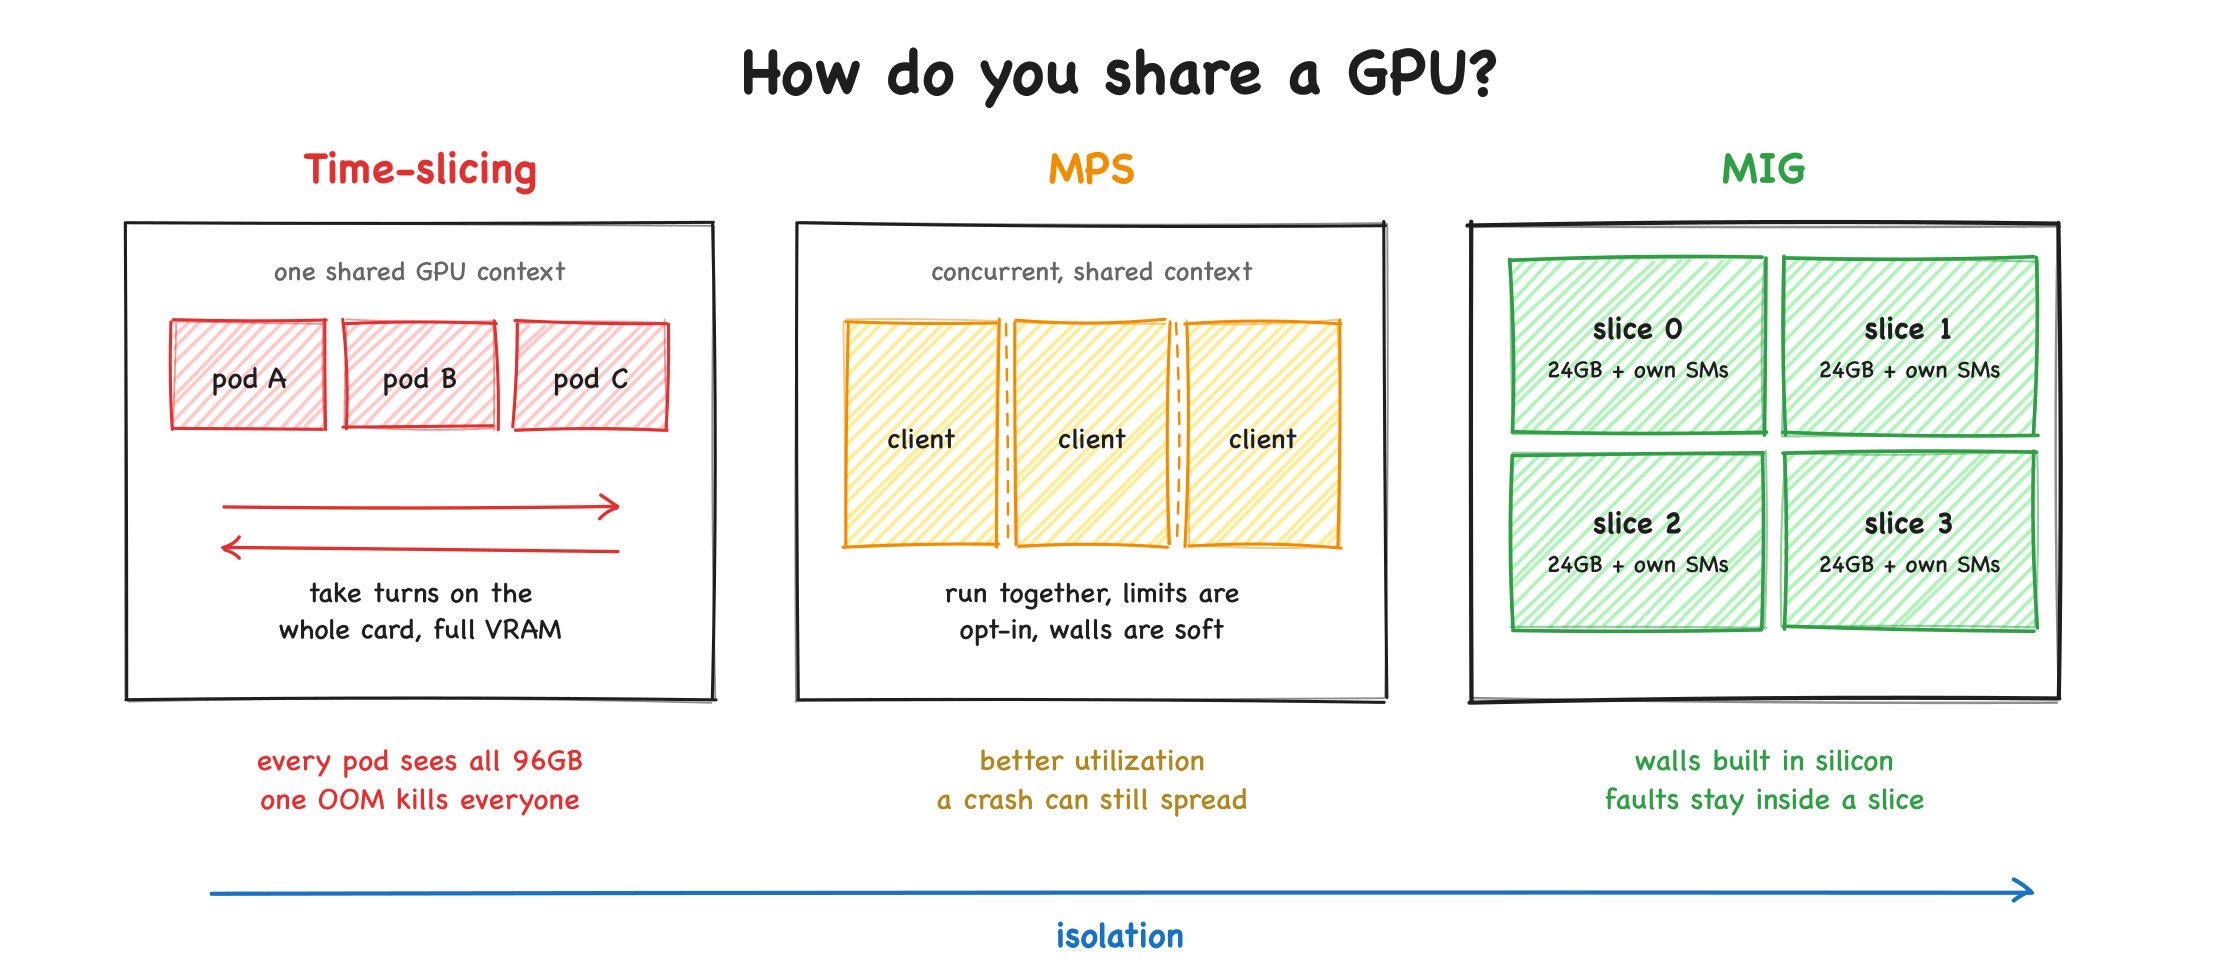
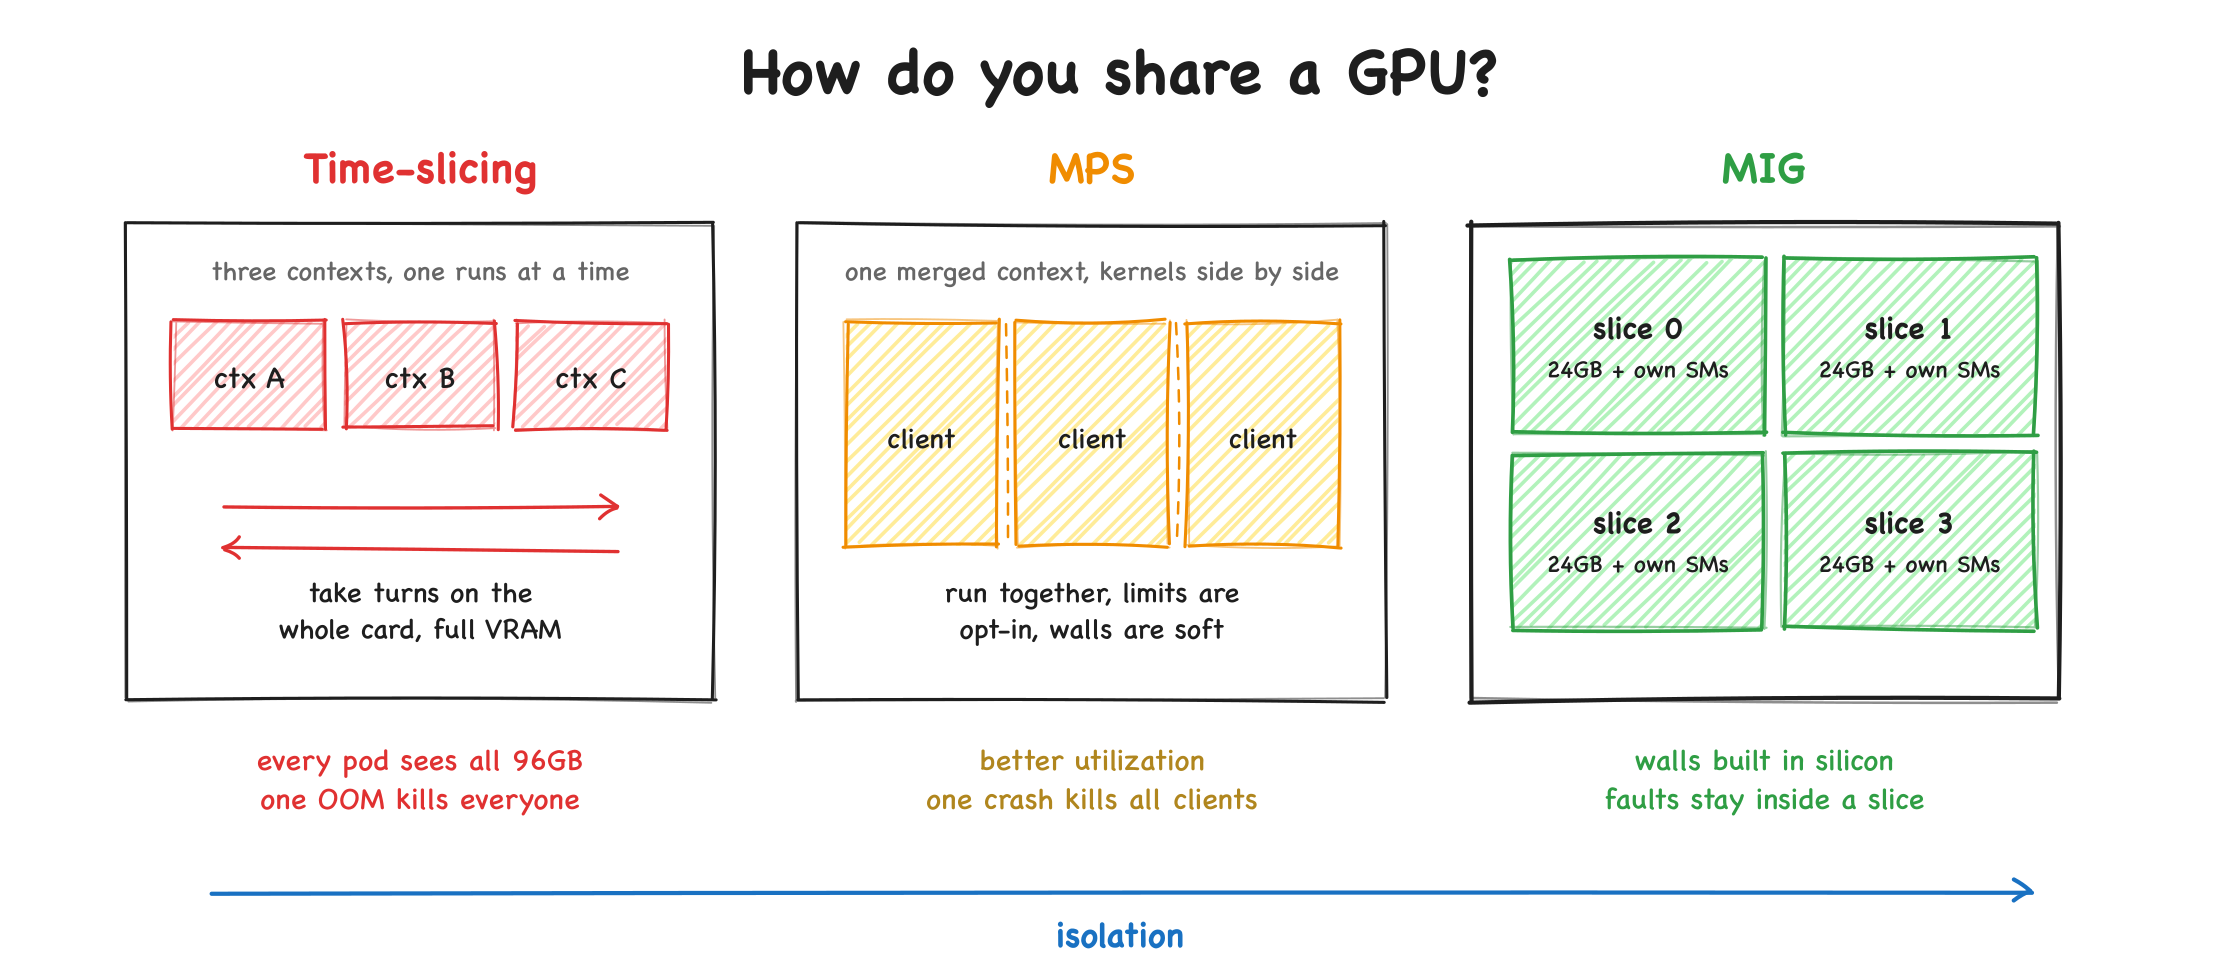
MIG post: explain sharing mechanisms from CUDA-context first principles
- New baseline subsection: what a CUDA context is, how kernels land on
  SMs, and the one-context-at-a-time rule that makes GPUs single-tenant
- Time-slicing reframed as contexts taking turns, with concrete OOM and
  noisy-neighbor examples
- MPS reframed around its actual trick: merging all clients into the
  MPS server's single context for real space-sharing, incl. the opt-in
  limit env vars and the shared-fault-domain failure story
- MIG subsection extended with L2/bandwidth partitioning and per-slice
  contexts; comparison table gains "the trick" and parallelism rows
- Spectrum diagram corrected: time-slicing shows separate contexts
  taking turns, MPS shows the merged context

diff --git a/content/blog/slicing-gpus-in-kubernetes-with-nvidia-mig.md b/content/blog/slicing-gpus-in-kubernetes-with-nvidia-mig.md
@@ -41,23 +41,51 @@ The fix is GPU sharing. But "sharing a GPU" means very different things dependin
 
 ## The Three Ways to Share a GPU
 
-NVIDIA gives you three mechanisms to put more than one workload on a card. They differ in one crucial dimension: how much one workload can hurt another.
+NVIDIA gives you three mechanisms to put more than one workload on a card. To understand why they behave so differently, you first need to know what actually happens when a process uses a GPU.
+
+### First: How a Process Talks to a GPU
+
+When a program calls its first CUDA function (a PyTorch `tensor.cuda()`, a TensorFlow session, anything), the driver creates a **CUDA context** for it on the GPU. Think of the context as the GPU-side equivalent of an operating system process: it owns the program's VRAM allocations and their page tables, its streams, and its pending kernel launches. Every CUDA process gets its own context, and contexts cannot see into each other's memory.
+
+When that program launches a kernel, the work is chopped into thread blocks, and the GPU's scheduler sprays those blocks across the Streaming Multiprocessors (SMs), the hardware units that execute the math.
+
+Here is the detail that makes GPU sharing interesting: **by default, only one CUDA context executes on the GPU at a time.** If your kernel only keeps 20 of the card's 188 SMs busy, the other 168 sit idle anyway, because they belong to your context's turn. Another process's kernels cannot sneak onto the idle SMs; that process's whole context has to wait for its own turn. A GPU is, out of the box, a single-tenant machine.
+
+Every sharing mechanism is an answer to this one problem, and each answers it at a different layer:
 
 ![The GPU sharing spectrum: time-slicing, MPS, and MIG compared](/img/blog/slicing-gpus-in-kubernetes-with-nvidia-mig/gpu-sharing-spectrum.png)
 
-**1. Time-slicing.** The GPU rapidly context-switches between processes, the same way a single CPU core runs many threads. The device plugin can advertise one GPU as, say, 4 "replicas", and Kubernetes happily schedules 4 pods onto it. But there is no isolation at all: every process sees the full VRAM, nothing stops one pod from allocating all of it, and a single out-of-memory error can take down every workload on the card. Context switching also wastes cycles. Time-slicing is fine for dev clusters and bursty, trusted workloads. It is not a tenant isolation story.
+### Time-Slicing: Contexts Take Turns
 
-**2. MPS (Multi-Process Service).** MPS lets multiple processes submit work to the GPU concurrently instead of taking turns, which improves utilization for many small kernels. You can cap each client's compute and memory. But all clients share a single GPU context: memory limits are opt-in rather than enforced by hardware, and a crashing client can still corrupt the shared context and bring down its neighbors. Better throughput than time-slicing, still soft isolation.
+Time-slicing accepts the one-context-at-a-time rule and just makes the turns short. The driver rapidly context-switches the GPU between processes, exactly the way a single CPU core runs many threads. In Kubernetes, the device plugin can advertise one GPU as, say, 4 "replicas", and 4 pods land on it, each with its own CUDA context taking turns on the whole card.
 
-**3. MIG (Multi-Instance GPU).** MIG partitions the physical GPU at the silicon level. Each instance gets its own dedicated VRAM slice with its own memory controllers, its own Streaming Multiprocessors, and its own fault domain. A crash in one instance cannot touch the others. An OOM in one instance is contained to that instance. To the workload, the slice looks like a smaller dedicated GPU with a stable, predictable performance profile.
+Concretely: pod A runs its kernels for a scheduling quantum while pods B and C are frozen, then the GPU performs a full context switch (drain A's work, swap in B's state) and B gets the card. Nothing runs in parallel. The context switches themselves burn cycles, and a pod that launches one long-running kernel can sit on its turn while everyone else's latency spikes.
+
+The bigger problem is what is *not* partitioned: memory. All those contexts allocate from the same 96GB VRAM pool with no quota. If pod A leaks memory until the pool is exhausted, pod B's next `cudaMalloc` fails and B crashes, even though B did nothing wrong. And a fatal fault that forces a GPU reset takes down every pod on the card. Time-slicing is fine for dev clusters and bursty, trusted workloads. It is not a tenant isolation story.
+
+### MPS: Many Processes Pretend to Be One
+
+MPS (Multi-Process Service) attacks the idle-SM waste directly with a clever trick: if only one context can execute at a time, then let everyone share **one context**. An MPS server process sits between the clients and the GPU. Client processes hand their kernel launches to the server, and the server submits all of them through its own single GPU context. From the hardware's point of view there is just one well-behaved tenant; in reality its work is a merge of everybody's kernels.
+
+Because it all lives in one context, kernels from different processes now genuinely run **at the same time on different SMs**. Three inference services that each keep 20% of the SMs busy stack up to 60% utilization instead of each waiting for a turn. This is space-sharing instead of time-sharing, and for lots of small kernels it is a real throughput win.
+
+But the same trick is also the weakness. The isolation you normally get from separate contexts is gone, replaced by bookkeeping inside the MPS server. Per-client SM and memory caps exist (`CUDA_MPS_ACTIVE_THREAD_PERCENTAGE`, `CUDA_MPS_PINNED_DEVICE_MEM_LIMIT`), but they are opt-in environment variables, not hardware walls. And the fault domain is shared: one client hitting a fatal error (an illegal memory access, say) can bring down the MPS server itself, and when the server dies, every client's "GPU" disappears mid-flight. Better throughput than time-slicing, still soft isolation, best kept inside a single trust boundary, one team sharing a card with itself.
+
+### MIG: Split the Silicon
+
+MIG (Multi-Instance GPU) stops playing scheduling games and changes the hardware answer instead. It partitions the physical GPU at the silicon level: each instance gets its own dedicated VRAM slice with its own memory controllers and L2 cache portion, its own set of SMs, and its own fault domain. Each slice runs its *own* CUDA contexts, concurrently with the other slices, because each slice genuinely is a smaller GPU as far as the execution hardware is concerned.
+
+That changes all three failure stories at once. OOM? A slice's contexts allocate only from that slice's 24GB; exhaust it and only that tenant fails. Noisy neighbor? A slice's kernels physically cannot touch another slice's SMs, and because the memory bandwidth is partitioned too, your latency does not jitter when the neighbor gets busy. Crash? Fault containment is per slice; the other slices never notice. To the workload, the slice just looks like a smaller dedicated GPU with a stable, predictable performance profile.
 
 | | Time-slicing | MPS | MIG |
 | --- | --- | --- | --- |
+| The trick | Contexts take turns, fast | Everyone shares one context | Split the hardware itself |
+| Parallelism | None (serialized turns) | Real (space-sharing SMs) | Real (separate silicon) |
 | Isolation | None | Software (shared context) | Hardware (silicon level) |
-| Memory protection | None | Opt-in limits | Enforced by hardware |
-| Fault blast radius | Whole card | Whole card | One slice |
+| Memory protection | None, one shared pool | Opt-in limits | Enforced by hardware |
+| Fault blast radius | Whole card | Whole card (server dies, all die) | One slice |
 | Performance | Variable, context-switch overhead | Good for small kernels | Predictable, dedicated units |
-| Best for | Dev/test, trusted bursty jobs | Many small kernels from one team | Shared platforms with real tenant boundaries |
+| Best for | Dev/test, trusted bursty jobs | One team packing its own card | Shared platforms with real tenant boundaries |
 
 If you are building a platform where different teams, customers, or environments share the same silicon, MIG is the only option of the three that gives you a hardware guarantee instead of a promise. That is the mechanism this post is about.
 